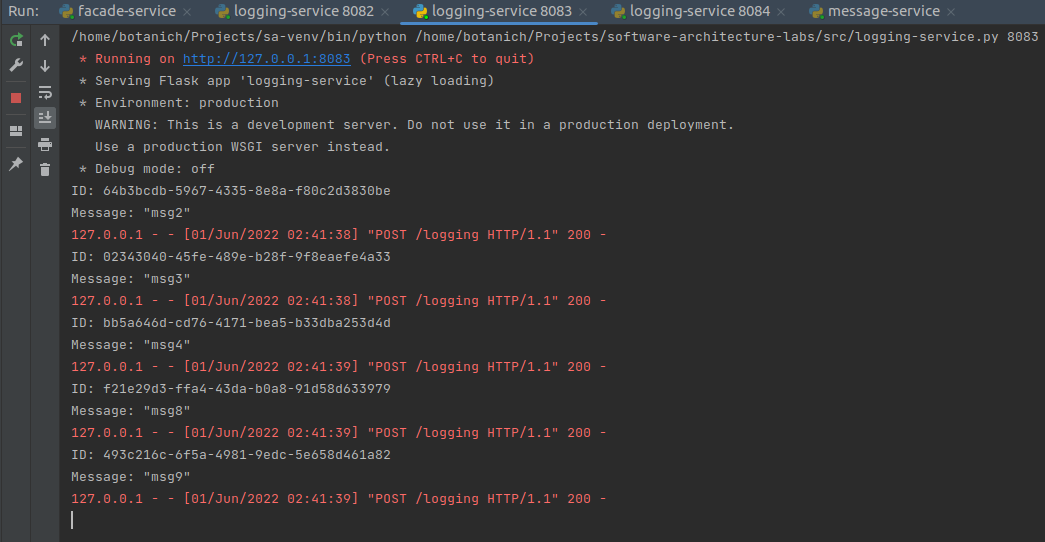
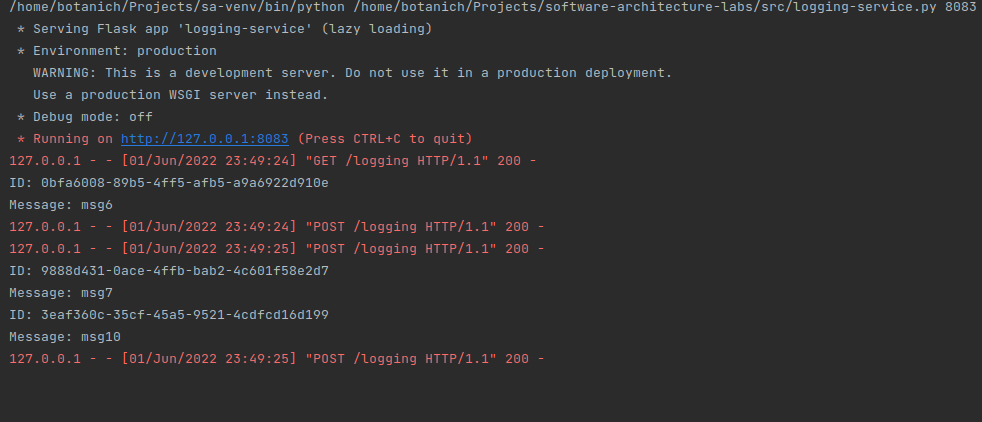
lab#4 - updated microservices

Changed region(s): [[0.0, 0.0, 1.0, 0.955], [0.1833, 0.8934, 0.5804, 0.955]]

diff --git a/src/facade-service.py b/src/facade-service.py
@@ -2,27 +2,30 @@ from flask import Flask, request
 from requests import get, post
 from random import choice
 import uuid
+import hazelcast
 
 app = Flask(__name__)
+
+log_url = ('http://localhost:8083/logging', 'http://localhost:8084/logging', 'http://localhost:8085/logging')
+msg_url = ('http://localhost:8081/messages', 'http://localhost:8082/messages',)
+
+client = hazelcast.HazelcastClient(cluster_members=["127.0.0.1:5701", "127.0.0.1:5702", "127.0.0.1:5703"])
+msq_q = client.get_queue("message-queue").blocking()
 
 
 @app.route('/facade', methods=['GET', 'POST'])
 def requests():
-    log_url = ('http://localhost:8082/logging', 'http://localhost:8083/logging', 'http://localhost:8084/logging')
     if request.method == 'GET':
-        message_url = 'http://localhost:8081/messages'
-
-        data = get(choice(log_url))
-        # response_log = get(choice(log_url)).text
-        response_log = data.text
-        response_message = get(message_url).text
-        return 'Messages-service reply: ' + response_message + '\n' \
+        response_log = get(choice(log_url)).text
+        response_msg = get(choice(msg_url)).text
+        return 'Messages-service reply: ' + response_msg + '\n' \
                + 'Logging-service reply: ' + response_log + '\n'
     if request.method == 'POST':
-        message = request.get_data()
-        message_uuid = str(uuid.uuid4())
+        message = request.get_json()
+        msq_q.put(str(message))
+        msg_uuid = str(uuid.uuid4())
 
-        return post(choice(log_url), data={"id": message_uuid, "msg": message}).text
+        return post(choice(log_url), data={"id": msg_uuid, "msg": message}).text
 
 
 if __name__ == '__main__':

diff --git a/src/logging-service.py b/src/logging-service.py
@@ -3,23 +3,23 @@ from flask import Flask, request
 import hazelcast
 
 app = Flask(__name__)
+client = hazelcast.HazelcastClient(cluster_members=['127.0.0.1:5701', '127.0.0.1:5702', '127.0.0.1:5703'])
+msg_dict = client.get_map('msg-dict').blocking()
 
 
 @app.route('/logging', methods=['GET', 'POST'])
 def logging_requests():
-    client = hazelcast.HazelcastClient(cluster_members=["127.0.0.1:5701", "127.0.0.1:5702", "127.0.0.1:5703"])
-    message_dict = client.get_map('log-map').blocking()
     if request.method == 'GET':
-        return ', '.join(message_dict.values())
+        return ', '.join(msg_dict.values())
     if request.method == 'POST':
         uuid = request.form['id']
         msg = request.form['msg']
         print(f'ID: {uuid}\nMessage: {msg}')
-        message_dict.lock(uuid)
+        msg_dict.lock(uuid)
         try:
-            message_dict.put(uuid, msg)
+            msg_dict.put(uuid, msg)
         finally:
-            message_dict.unlock(uuid)
+            msg_dict.unlock(uuid)
         return 'return_str'
 
 

diff --git a/src/message-service.py b/src/message-service.py
@@ -1,12 +1,21 @@
 from flask import Flask
+import sys
+import hazelcast
 
 app = Flask(__name__)
+
+client = hazelcast.HazelcastClient(cluster_members=['127.0.0.1:5701', '127.0.0.1:5702', '127.0.0.1:5703'])
+msg_q = client.get_queue('message-queue').blocking()
+msg_data = []
 
 
 @app.route('/messages', methods=['GET', 'POST'])
 def messages_requests():
-    return 'Not implemented yet'
+    while not msg_q.is_empty():
+        msg_data.append(msg_q.take())
+        print(f'Message: {msg_data[-1]}')
+    return ', '.join(msg_data)
 
 
 if __name__ == '__main__':
-    app.run(port=8081)
+    app.run(port=int(sys.argv[1]))
